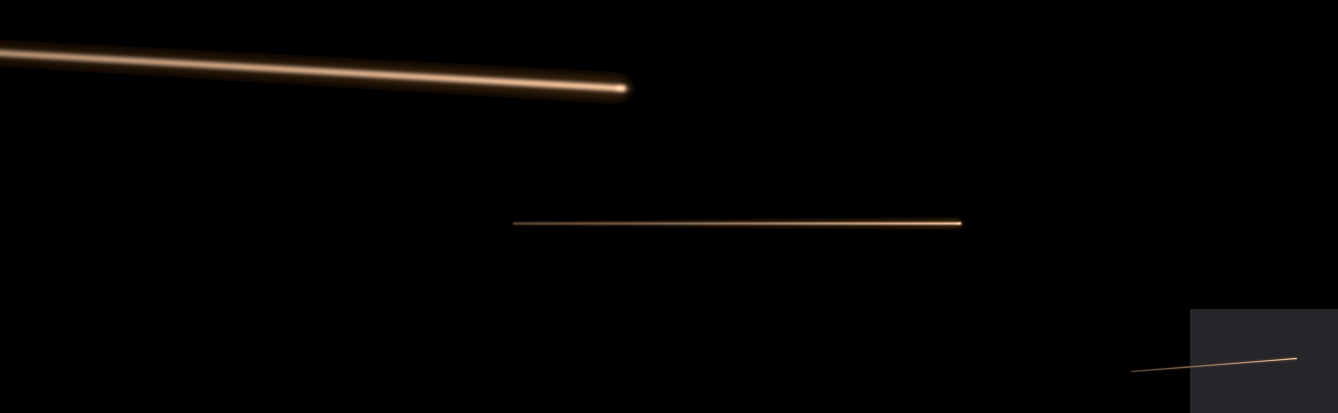
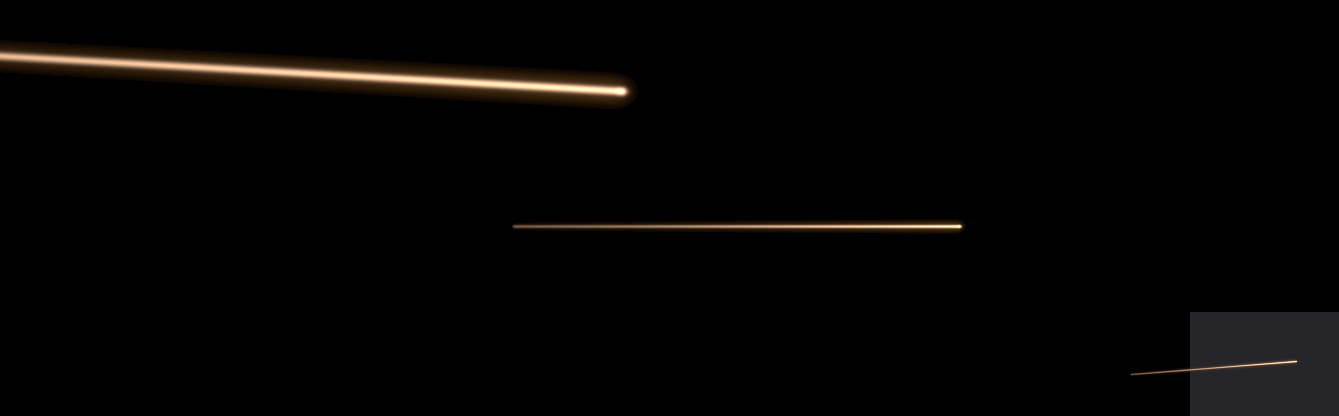
test(weapon-effects): records on b572c35de (clean), crops, ledger "FL 60 A decisions"

Changed region(s): [[0.0, 0.1162, 0.4903, 0.2615], [0.3677, 0.523, 0.7354, 0.5811], [0.858, 0.8717, 0.9499, 0.9007]]

diff --git a/docs/architecture/projectile-look.md b/docs/architecture/projectile-look.md
@@ -413,11 +413,9 @@ segments); the head is the row's maximum 2 px behind the head at 1.44 x the trai
 head_gain 1.5); the row at the age `trail_ms` is 0; the trail's 50 % and 20 % points are 11.07 / 23.16 game ms at 17
 and 23 ms steps (the law 11.07 / 23.16); under SETA 6 the bolt's own segment is drawn in full (357.0 px of 357.0), the
 comet to 125 ms with T 167.8 ms (50 % / 20 % at 46.44 / 97.18 ms, the law 46.44 / 97.17) at energy 0.2065 = 30 / 145.25
-m; the spot's hysteresis holds the mode over four frames at 0.9 / 1.1 core widths (peaks within 2.4 %); one quad against
+m (with the cap then 30; 0.4131 at 60); the spot's hysteresis holds the mode over four frames at 0.9 / 1.1 core widths (peaks within 2.4 %); one quad against
 two across the merge tolerance changes the light by 0.1 %; the end-on spot keeps full radiance (no trail, no head); the
-512-bolt budget at 5120x1440 with the ring full: CPU 90.4 µs, GPU fenced 45.9 µs (fence 10.6 µs), 532 quads, 486 of 506
-comets one quad, 6 dots. **Not within budget:** the worst case (512 curved comets at 144 fps under a 43°/s turn) with
-the adaptive ring, 1516 quads, CPU 115.3 µs, GPU fenced 68.0 µs [M]. Not flown.
+512-bolt budget at 5120x1440 with the ring full: CPU 88.0 µs, GPU fenced 46.4 µs (fence 10.7 µs), 532 quads; the synthetic worst case (512 curved comets at 144 fps under a 43°/s turn, the adaptive ring trimming) CPU 115.2 µs, GPU fenced 67.5 µs, inside its 150 / 100 µs tripwire (section 6) [M]. Energy since `length_cap_m` 60: 1.0 at 1x, 0.4131 under SETA 6. Not flown.
 Look frames (`run_weapon_effects.py --host native --dump DIR`, the fixture's projection, linear light clamped and
 sRGB-encoded as the mocks, no bloom, AgX or TAA; since FL 60 A the last of consecutive stage frames through the
 production builder, so each bolt is its comet), cropped around the bolts:

diff --git a/docs/verification/weapon-effects.md b/docs/verification/weapon-effects.md
@@ -3369,3 +3369,14 @@ a shorter drawn trail under load, or a cheaper lane format. Nit (G): the shell p
 worst four regions 98.6 → 104.6 µs, one run each). Builds FL and AP 0 warnings; `check_no_x87.py` 0 violations (FL 1060,
 AP 1161); `--check` PASS, no compiler warning; host `test_weapon_effects*.py` 96 OK; look crops regenerated (the SETA
 frame's comets now run past their motion: 200 m 1278 px and off the frame's left edge). Not flown.
+
+**FL 60 A decisions (2026-11-09, `b572c35de`).** (1) `length_cap_m` 30 → 60 m (its meaning unchanged: the radiance
+scales by cap / the drawn length past it), so the 1x comet (about 35 m drawn at IRE speed) is not dimmed; under SETA 6
+the dimming still applies (60 / 145.25 m = 0.4131). (2) The worst case (512 curved comets on screen during a 43°/s turn
+at 144 fps) is a synthetic case far beyond any flight, gated as a regression tripwire at CPU 150 µs and GPU 100 µs
+fenced with the trim active; the flight budget stays the main row's 100 / 50 µs and the flight evidence is the
+`weapon_effects_frame` row's `projectile_us_max`. Records on the clean `b572c35de` [M]: AP hook **131 of 131**, FL hook
+**67 of 67**, D3D **81 of 81**; comet energy at 1x 1.0000, SETA 6 0.4131 (want 0.4131); flat cap case 0.5379 = 60 /
+111.55; seams rise 0.0000, deviation ≤ 1.12 %; main budget CPU 88.0 µs, GPU fenced 46.4 µs (532 quads, 6.01 % lit);
+worst case CPU 115.2 µs, GPU fenced 67.5 µs (1516 quads, 7.80 % lit), inside the tripwire. Host `test_weapon_effects*.py`
+96 OK; look crops regenerated (1x comets at full radiance, the SETA frame at 0.41).
